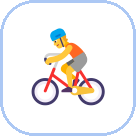
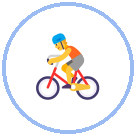
导航卡片下移避开右上角胶囊按钮、始终显示当前路线指引；位置图标改小为圆形毛玻璃；新增方向箭头随手机朝向旋转

Changed region(s): [[0.0, 0.0, 1.0, 1.0], [0.2059, 0.2059, 0.7941, 0.7941]]

diff --git a/pages/route/route.js b/pages/route/route.js
@@ -82,10 +82,12 @@ Page({
     navRemainMin: '',
     // 地图固定北向上（放弃朝向旋转）
     rotate: 0,
-    // 顶部导航信息卡：默认收起（不遮挡地图）
-    navCardOpen: false,
+    // 顶部导航信息卡：默认展开（显示当前路线指引）
+    navCardOpen: true,
     // 是否显示系统定位蓝点（导航中用放大图标替代）
     showLocation: true,
+    // 顶部卡片顶部位置（避开右上角胶囊按钮）
+    navCardTop: 0,
     // 状态栏高度（顶部导航卡避开状态栏）
     navStatusBar: 20,
     // 深色地图（地图个性化样式）：微信小程序的官方高级能力，当前未开通，地图底图保持浅色。
@@ -100,7 +102,8 @@ Page({
     const dark = app.globalData.darkMode
     // 顶部导航卡需要避开手机状态栏
     const winInfo = wx.getWindowInfo ? wx.getWindowInfo() : wx.getSystemInfoSync()
-    this.setData({ navStatusBar: winInfo.statusBarHeight || 20 })
+    const sb = winInfo.statusBarHeight || 20
+    this.setData({ navStatusBar: sb, navCardTop: sb + 46 })
     app.setThemeNav(theme)
     const to = poisData.pois.find(p => p.id === options.toId) || null
     this.setData({ to })
@@ -317,9 +320,36 @@ Page({
         latitude: from ? from.latitude : to.latitude,
         longitude: from ? from.longitude : to.longitude,
         iconPath: this.data.routeMode === 'bicycling' ? '/images/marker-bike.png' : '/images/marker-walk.png',
-        width: 68,
-        height: 68,
+        width: 60,
+        height: 60,
         anchor: { x: 0.5, y: 0.5 }
+      })
+    }
+    // 方向箭头：显示在位置上方，随手机朝向旋转
+    if (!markers.some(m => m.id === 1)) {
+      markers.push({
+        id: 1,
+        latitude: (from ? from.latitude : to.latitude) + 0.00006,
+        longitude: from ? from.longitude : to.longitude,
+        iconPath: '/images/marker-dir.png',
+        width: 44,
+        height: 44,
+        anchor: { x: 0.5, y: 0.5 },
+        rotation: 0
+      })
+    }
+    // 开启罗盘：更新方向箭头，指示手机朝向
+    if (wx.startCompass) wx.startCompass({ fail: () => {} })
+    if (wx.onCompassChange) {
+      wx.onCompassChange((res) => {
+        if (this.data.navMode && typeof res.direction === 'number') {
+          const ms = this.data.markers.slice()
+          const di = ms.findIndex(m => m.id === 1)
+          if (di > -1) {
+            ms[di] = Object.assign({}, ms[di], { rotation: res.direction % 360 })
+            this.setData({ markers: ms })
+          }
+        }
       })
     }
     this.setData({
@@ -373,8 +403,10 @@ Page({
   stopNav() {
     if (wx.stopLocationUpdate) wx.stopLocationUpdate({ fail: () => {} })
     if (wx.offLocationChange) wx.offLocationChange()
-    // 移除放大的当前位置图标，恢复系统定位点
-    const markers = (this.data.markers || []).filter(m => m.id !== 0)
+    if (wx.stopCompass) wx.stopCompass({ fail: () => {} })
+    if (wx.offCompassChange) wx.offCompassChange()
+    // 移除放大的位置图标和方向箭头，恢复系统定位点
+    const markers = (this.data.markers || []).filter(m => m.id !== 0 && m.id !== 1)
     this.setData({ navMode: false, scale: 15, rotate: 0, showLocation: true, markers })
   },
 
@@ -391,12 +423,12 @@ Page({
     const remainText = r.remain >= 1000
       ? (r.remain / 1000).toFixed(1) + ' 公里'
       : Math.max(1, Math.round(r.remain)) + ' 米'
-    // 更新放大的当前位置图标
+    // 更新放大的当前位置图标和方向箭头
     const markers = this.data.markers.slice()
-    const li = markers.findIndex(m => m.id === 0)
-    if (li > -1) {
-      markers[li] = Object.assign({}, markers[li], { latitude: cur.latitude, longitude: cur.longitude })
-    }
+    markers.forEach(m => {
+      if (m.id === 0) Object.assign(m, { latitude: cur.latitude, longitude: cur.longitude })
+      if (m.id === 1) Object.assign(m, { latitude: cur.latitude + 0.00006, longitude: cur.longitude })
+    })
     // 只跟随位置，不重置缩放级别（用户手动放大后保持）；地图固定北向上
     this.setData({
       center: cur,
